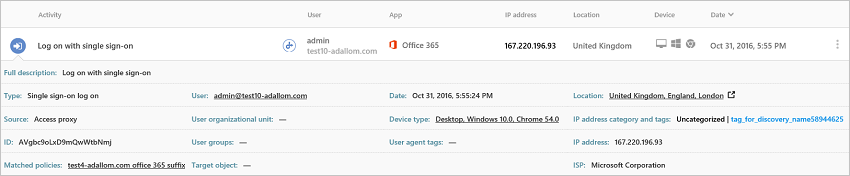
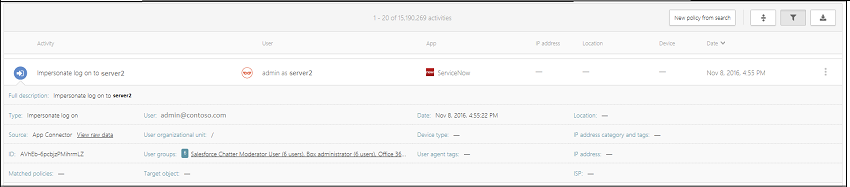
added view raw data, updated activity, fixed typo in discovery

diff --git a/CloudAppSecurityDocs/user-activity-policies.md b/CloudAppSecurityDocs/user-activity-policies.md
@@ -7,7 +7,7 @@ keywords:
 author: rkarlin
 ms.author: rkarlin
 manager: mbaldwin
-ms.date: 10/15/2016
+ms.date: 11/8/2016
 ms.topic: article
 ms.prod:
 ms.service: cloud-app-security
@@ -48,7 +48,7 @@ To create a new activity policy, follow this procedure:
 4.  To set which actions or other metrics will trigger this policy, work with the **Activity filters**.  
   
 5.  Under **Activity match parameters**, select whether a policy violation will be triggered when a single activity matches the filters or if a violation is only detected when a specified number of **Repeated activities** are detected.  
-    If you choose **Repeated activity**, set the activities that will trigger the alert: The number of activities, time frame and whether a violation will count for a user within a specific app or for the same user with any app.  
+    If you choose **Repeated activity**, you can set **Group matched activities per app**. This will trigger a policy match only when the repeated activities occur in the same app (for example, 5 downloads from Box).  
   
 6.  Configure the **Actions** that should be taken when a match is found.  
   

diff --git a/CloudAppSecurityDocs/configure-automatic-log-upload-for-continuous-reports.md b/CloudAppSecurityDocs/configure-automatic-log-upload-for-continuous-reports.md
@@ -7,7 +7,7 @@ keywords:
 author: rkarlin
 ms.author: rkarlin
 manager: mbaldwin
-ms.date: 10/15/2016
+ms.date: 11/08/2016
 ms.topic: article
 ms.prod:
 ms.service: cloud-app-security
@@ -65,9 +65,7 @@ The log collector has a built-in safety mechanism that monitors the rate at whic
   
     d.  Compare your log with the sample of the expected log format. If your log file format does not match this sample, you should add your data source as **Other**.  
   
-    e.  Set the **Receiver type** to either **FTP** or **Syslog**.  
-  
-         For **Syslog**, choose **UDP** or **TCP**.  
+    e.  Set the **Receiver type** to either **FTP** or **Syslog**. For **Syslog**, choose **UDP** or **TCP**.  
   
     f.  Repeat this process for each firewall and proxy whose logs can be used to detect traffic on your network.  
   

diff --git a/CloudAppSecurityDocs/activity-filters.md b/CloudAppSecurityDocs/activity-filters.md
@@ -93,6 +93,7 @@ Below is a list of the activity filters that can be applied. Most filters suppor
 You can view more information about each activity, by clicking on the Activity iteself in the Activity log. This opens the Activity drawer which provides the following additional actions you can take on the file:
 
 - Matched policies: Click on the Matched policies link to see a list of policies this activity matched.
+- View raw data: Click on View raw data to see the actual data that was received from the app.
 - User: Click on the user to view the user page for the user who performed the activity. 
 - Device type: Click on device type to view the raw user agent data. 
 - Location: Click on the location to view the location in Bing maps.
